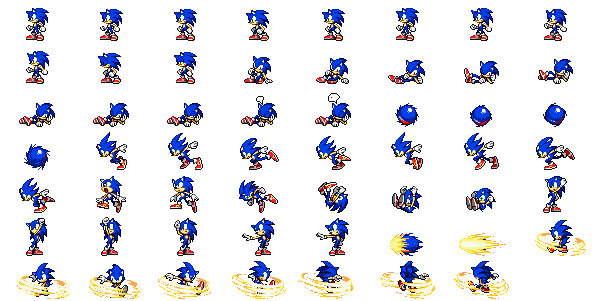
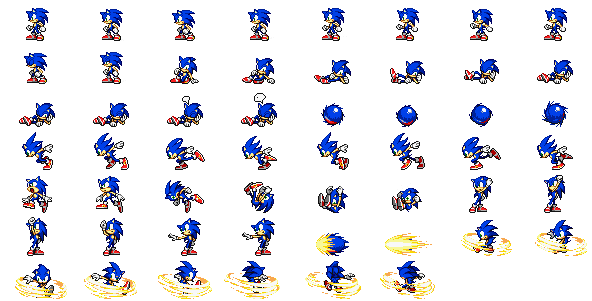
Restore Sonic's original idle, keep the lie-down
Sonic's standing idle is back to the original Advance 3 loop. The only addition is that he lies down with a "..." bubble when you wait a long time.

Claude-Session: https://claude.ai/code/session_017uHxn1dCfFcE4Pae6cHTSG

diff --git a/src/scenes/BattleScene.ts b/src/scenes/BattleScene.ts
@@ -184,7 +184,9 @@ export class BattleScene extends Phaser.Scene {
         continue;
       }
       st.t += dt;
-      if (st.stage === 0 && st.t > 4500 && this.anims.exists(wait) && key === idle) {
+      if (st.stage === 0 && st.t > 4500 && !this.anims.exists(wait)) {
+        st.stage = 1; // geen ongeduld-animatie (Sonic): meteen door naar zitten/liggen later
+      } else if (st.stage === 0 && st.t > 4500 && key === idle) {
         st.stage = 1;
         spr.play(wait);
         spr.once(Phaser.Animations.Events.ANIMATION_COMPLETE, () => { if (spr.anims.currentAnim?.key === wait) spr.play(idle); });

diff --git a/tools/build_atlas.py b/tools/build_atlas.py
@@ -42,11 +42,8 @@ rows = [sorted(r['b'], key=lambda b: b[0]) for r in rows]
 # --- 3. welke frames horen bij welke animatie ("rij.kolom" op de sheet)
 CHARACTERS = {
     'sonic': {
-        # Idle in lagen, zoals Advance 2/3: stilstaan, na een tijdje met zijn voet tikken,
-        # en als je nog langer wacht gaat hij liggen met een "..."-wolkje.
-        # ademhalen: frame 0 en een gemaakte variant waarin het bovenlichaam 1 pixel zakt (zie SYNTH)
-        'idle':    {'frames': [(0, 0, 700), (0, 90, 500), (0, 0, 600), (0, 90, 500)], 'repeat': -1},
-        'wait':    {'frames': [(0, c) for c in range(1, 10)], 'fps': 12, 'repeat': 2},
+        # zijn gewone idle; als je lang niks doet gaat hij liggen met een "..."-wolkje (zoals in Advance 2/3)
+        'idle':    {'frames': [(0, c) for c in range(0, 10)], 'fps': 8, 'repeat': -1},
         'sit':     {'frames': [(1, 6, 140), (1, 7, 140), (1, 8, 160), (1, 9, 160), (1, 10, 200), (1, 11, 200), (1, 12, 200), (1, 13, 300)], 'repeat': 0},
         'nap':     {'frames': [(1, 13, 900), (1, 14, 500), (1, 15, 1100)], 'repeat': -1},
         'spin':    {'frames': [(5, 3), (5, 4), (5, 5), (5, 6)], 'fps': 20, 'repeat': -1},
@@ -149,9 +146,7 @@ CLIP = {
 }.get(char, {})
 ANIMS = CHARACTERS[char]
 # gemaakte frames: (rij, nep-kolom) -> bron-frame. Het bovenlichaam zakt 1 pixel (ademhalen).
-SYNTH = {
-    'sonic': {(0, 90): (0, 0)},
-}.get(char, {})
+SYNTH = {}.get(char, {})
 
 def crop(r, c):
     if (r, c) in SYNTH:
